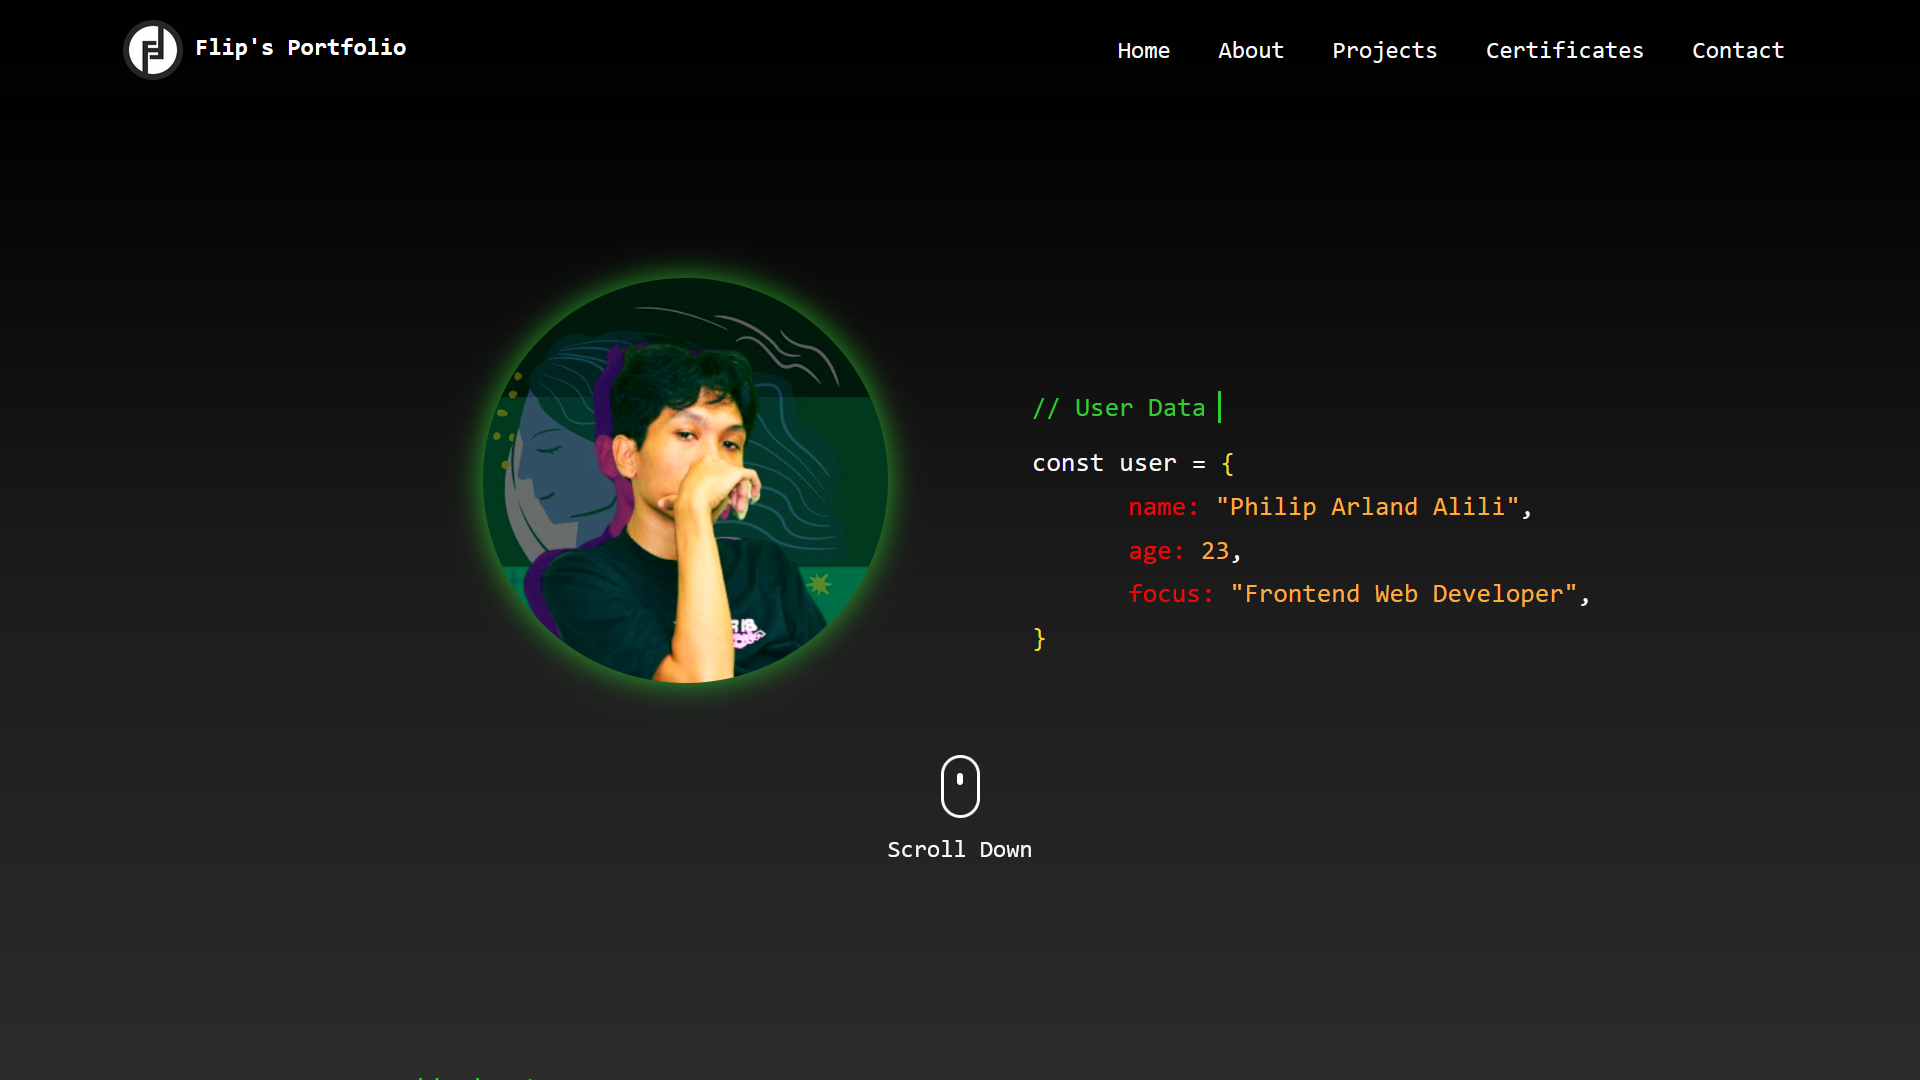
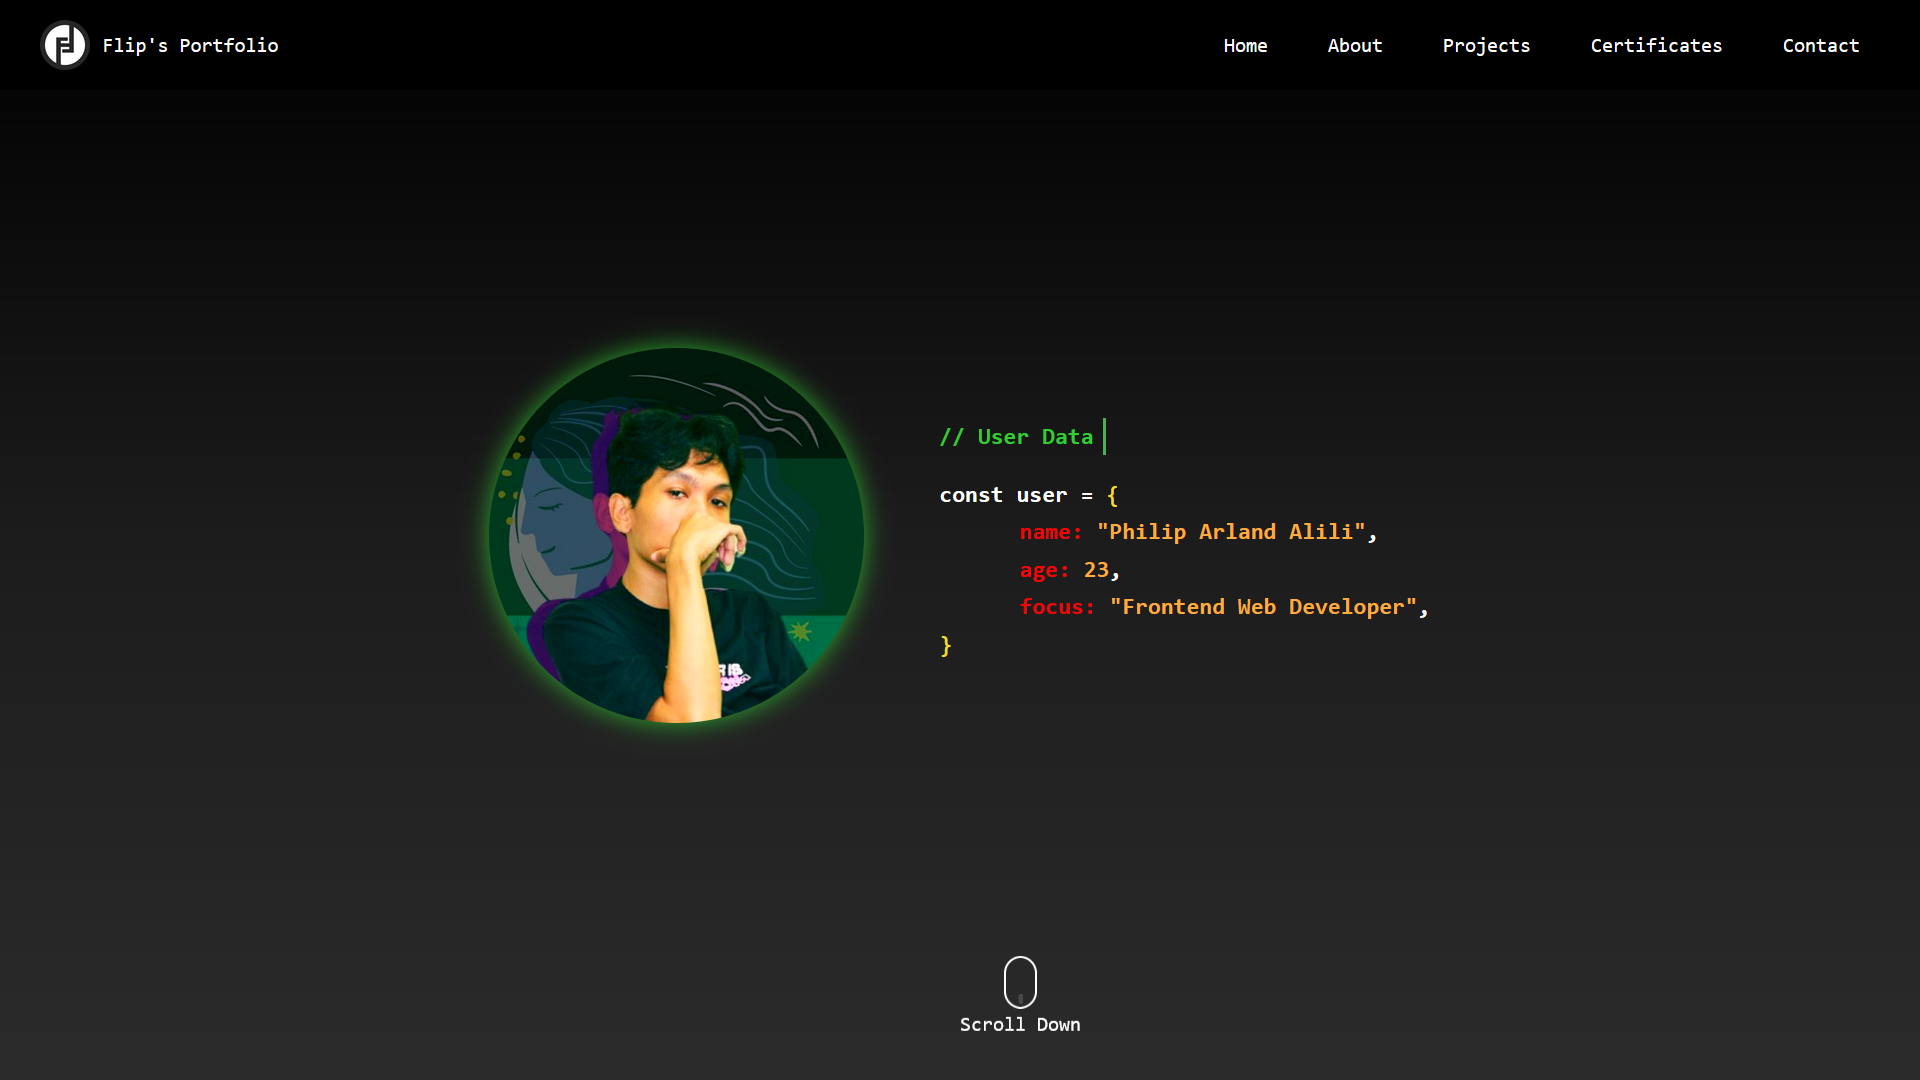
add new portfolio

diff --git a/assets/js/project.js b/assets/js/project.js
@@ -27,13 +27,13 @@ const featuredProjects = [
         tech: ["html5", "css3-alt"],
         link: "projects.html?project=haikyuu"
     },
-    {
-        title: "Spy x Family Themed Page",
-        description: "A simple themed webpage inspired by Spy x Family. Designed only with HTML and CSS.",
-        image: "assets/img/projects/spyxfam/anya.png",
-        tech: ["html5", "css3-alt"],
-        link: "projects.html?project=spyxfam"
-    },
+    // {
+    //     title: "Spy x Family Themed Page",
+    //     description: "A simple themed webpage inspired by Spy x Family. Designed only with HTML and CSS.",
+    //     image: "assets/img/projects/spyxfam/anya.png",
+    //     tech: ["html5", "css3-alt"],
+    //     link: "projects.html?project=spyxfam"
+    // },
     {
         title: "Current Portfolio",
         description: "My personal portfolio showcasing projects and skills, built with HTML, CSS, and JavaScript.",
@@ -241,6 +241,35 @@ const projectsData = {
         ],
         github: "https://github.com/PhilipArland/Flipped_Portfolio",
         live: "https://flipped-portfolio.vercel.app",
+    },
+
+    portfolio_v2: {
+        logo: "assets/img/projects/portfolio/logo.png",
+        title: "Portfolio V2",
+        description: "This is a previous version of my personal portfolio website, showcasing my projects and skills. It was built using basic HTML, CSS, and JavaScript, focusing on simplicity and clarity in design.",
+        images: [
+            "assets/img/projects/portfolio/portfoliov2.png",
+            "assets/img/projects/portfolio/portfoliov21.png",
+            "assets/img/projects/portfolio/portfoliov22.png",
+            "assets/img/projects/portfolio/portfoliov23.png",
+        ],
+        github: "",
+        live: "https://flip-portfolio.vercel.app/",
+    },
+
+    portfolio_v1: {
+        logo: "assets/img/projects/portfolio/logo.png",
+        title: "Portfolio V1",
+        description: "This is a previous version of my personal portfolio website, built using basic HTML, CSS, and JavaScript. It showcases my projects and skills in a straightforward layout.",
+        images: [
+            "assets/img/projects/portfolio/portfoliov1.png",
+            "assets/img/projects/portfolio/portfoliov11.png",
+            "assets/img/projects/portfolio/portfoliov12.png",
+            "assets/img/projects/portfolio/portfoliov13.png",
+            "assets/img/projects/portfolio/portfoliov14.png",
+        ],
+        github: "",
+        live: "https://flipxs.vercel.app/",
     },
 };
 

diff --git a/index.html b/index.html
@@ -14,12 +14,12 @@
     <link rel="stylesheet" href="assets/css/styles.css">
 </head>
 
-<body class="p-0 p-md-3">
+<body class="p-0 p-md-3 px-lg-5">
     <!-- Navbar -->
     <nav id="navbar-placeholder" class="navbar navbar-expand-lg bg-card shadow-sm d-md-none mb-1 mb-md-3 px-2">
     </nav>
 
-    <div class="container p-2">
+    <div class="container-fluid p-1 px-lg-5">
         <div class="row gx-3">
             <div class="col-md-3 d-none d-md-block">
                 <div id="sidebar-placeholder" class="sidebar card rounded-4 border-0 d-flex justify-content-between">
